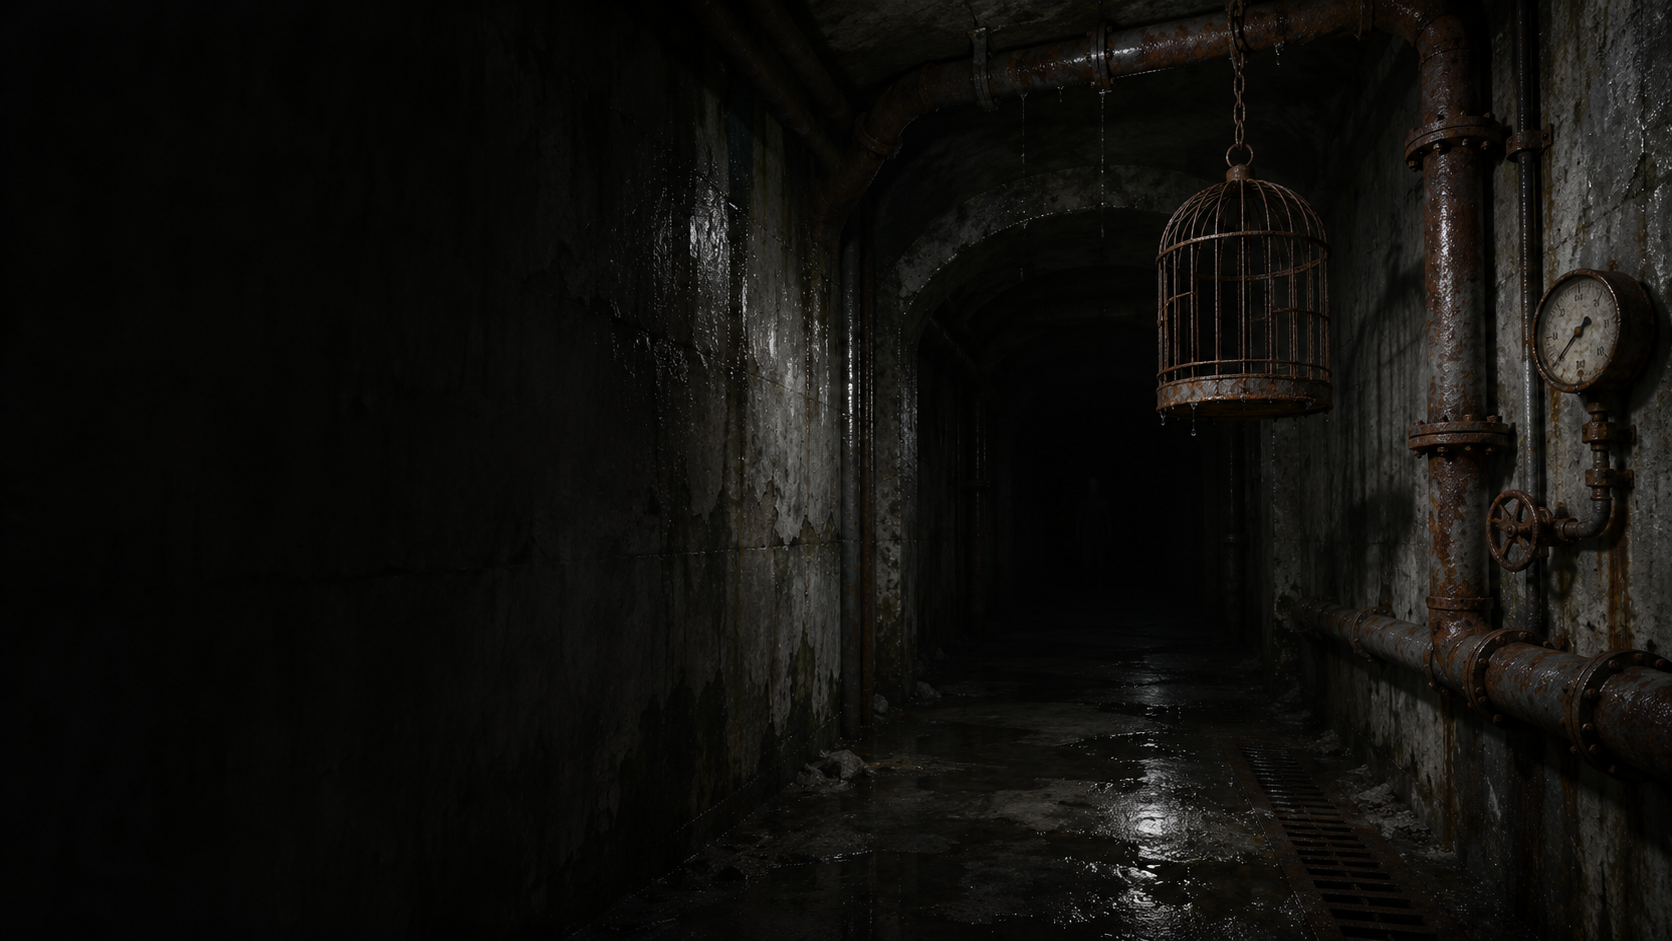
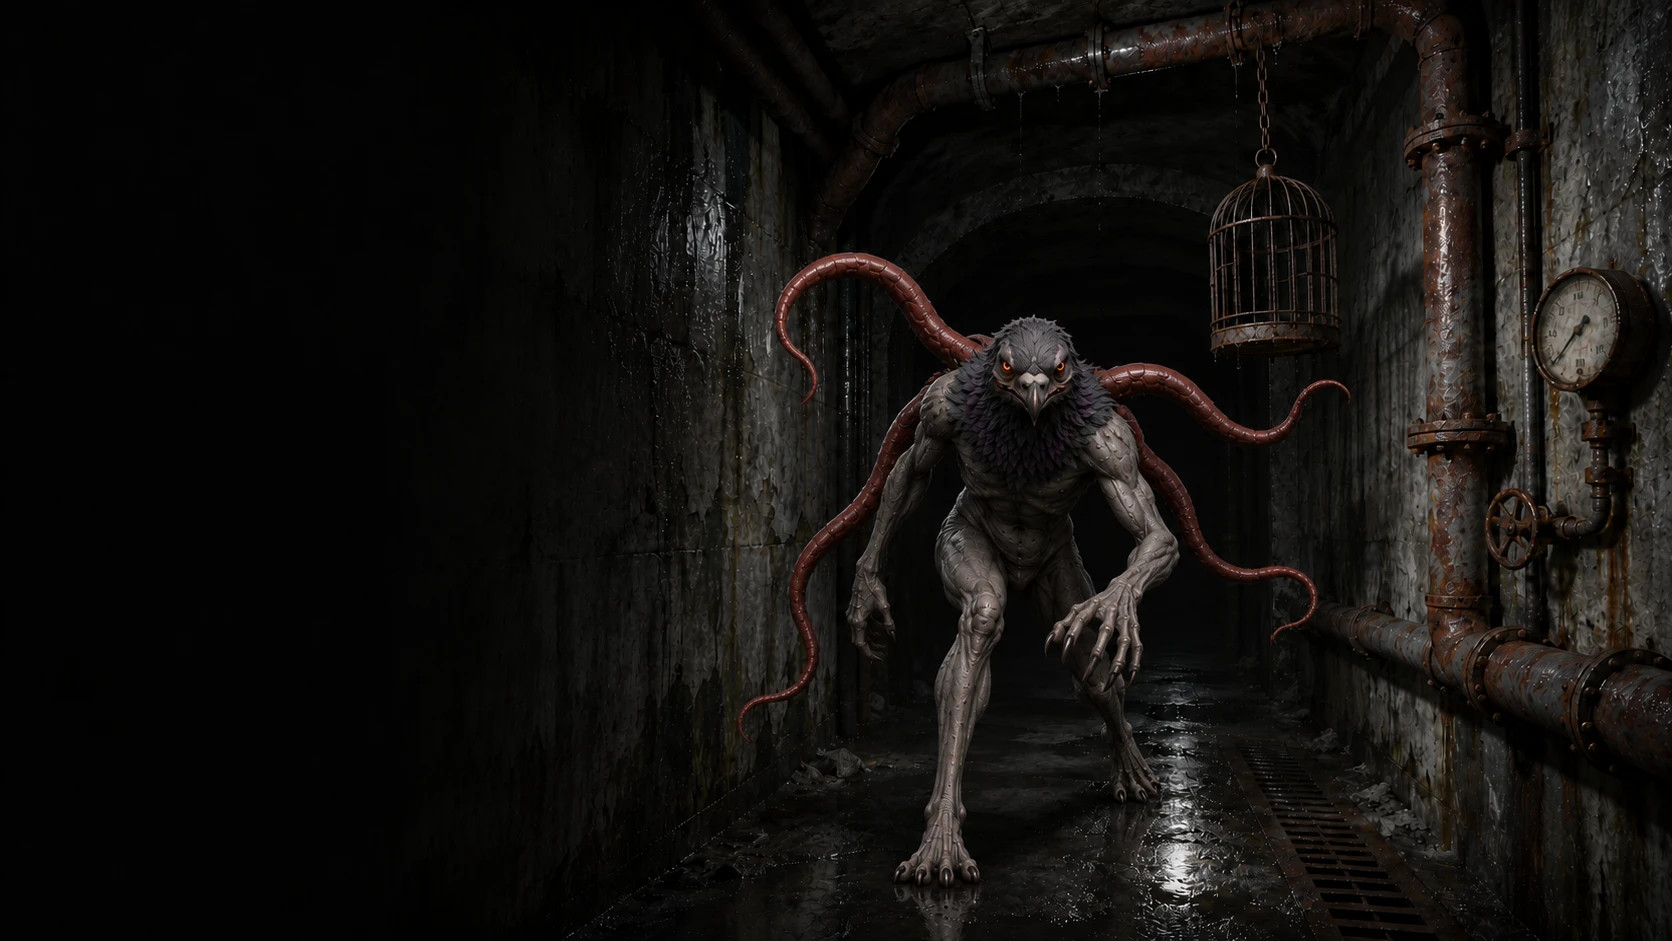
Use the monster artwork as the main menu background and start Play from the menu
The old background is kept as Background_Old.png. In the Editor, Play now always
starts from MainMenu (toggle under DeepCoo > Play From Main Menu).

diff --git a/Assets/Editor/PlayFromMainMenu.cs b/Assets/Editor/PlayFromMainMenu.cs
@@ -1,0 +1,45 @@
+using UnityEditor;
+using UnityEditor.SceneManagement;
+
+// Pressing Play in the Editor always starts from the main menu, like the built game does,
+// whichever scene is open. Turn it off with DeepCoo > Play From Main Menu to test a scene directly.
+[InitializeOnLoad]
+public static class PlayFromMainMenu
+{
+    const string MenuScene = "Assets/Scenes/MainMenu.unity";
+    const string MenuPath = "DeepCoo/Play From Main Menu";
+    const string PrefKey = "DeepCoo.PlayFromMainMenu";
+
+    static bool Enabled
+    {
+        get => EditorPrefs.GetBool(PrefKey, true);
+        set => EditorPrefs.SetBool(PrefKey, value);
+    }
+
+    static PlayFromMainMenu()
+    {
+        // wait until the asset database is ready before loading the scene asset
+        EditorApplication.delayCall += Apply;
+    }
+
+    static void Apply()
+    {
+        EditorSceneManager.playModeStartScene = Enabled
+            ? AssetDatabase.LoadAssetAtPath<SceneAsset>(MenuScene)
+            : null;
+    }
+
+    [MenuItem(MenuPath)]
+    static void Toggle()
+    {
+        Enabled = !Enabled;
+        Apply();
+    }
+
+    [MenuItem(MenuPath, true)]
+    static bool ToggleValidate()
+    {
+        Menu.SetChecked(MenuPath, Enabled);
+        return true;
+    }
+}
